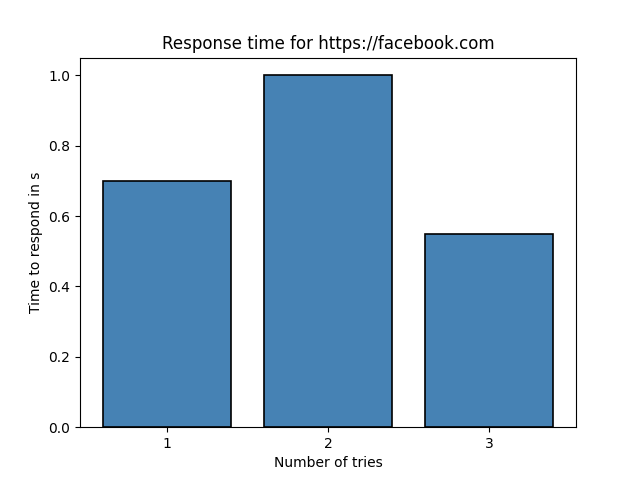
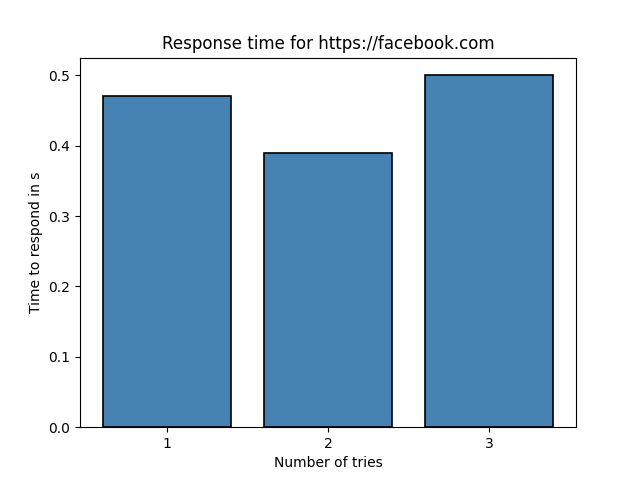
Refactor monitoring reports and add environment configuration for URL list

diff --git a/summary_report.html b/summary_report.html
@@ -1,45 +1,30 @@
 <!DOCTYPE html>
 <html>
-  <head>
-    <title>summary_report</title>
-  </head>
-  <body>
-    <h1>URL Monitoring Report</h1>
-    <div class="report">
-      <p>URL: https://google.com</p>
-      <p>INFO: 3</p>
-      <p>WARNING: 0</p>
-      <p>ERROR: 0</p>
-      <p>Average response time 0.35</p>
-      <h2>Response Time Chart</h2>
-      <img src="googlecom.png">
-    </div>
-    <div class="report">
-      <p>URL: https://youtube.com</p>
-      <p>INFO: 3</p>
-      <p>WARNING: 0</p>
-      <p>ERROR: 0</p>
-      <p>Average response time 0.37</p>
-      <h2>Response Time Chart</h2>
-      <img src="youtubecom.png">
-    </div>
-    <div class="report">
-      <p>URL: https://facebook.com</p>
-      <p>INFO: 3</p>
-      <p>WARNING: 0</p>
-      <p>ERROR: 0</p>
-      <p>Average response time 0.75</p>
-      <h2>Response Time Chart</h2>
-      <img src="facebookcom.png">
-    </div>
-    <div class="report">
-      <p>URL: https://twitter.com</p>
-      <p>INFO: 2</p>
-      <p>WARNING: 1</p>
-      <p>ERROR: 0</p>
-      <p>Average response time 0.96</p>
-      <h2>Response Time Chart</h2>
-      <img src="twittercom.png">
-    </div>
-  </body>
+
+<head>
+  <title>summary_report</title>
+</head>
+
+<body>
+  <h1>URL Monitoring Report</h1>
+  <div class="report">
+    <p>URL: https://google.com</p>
+    <p>INFO: 3</p>
+    <p>WARNING: 0</p>
+    <p>ERROR: 0</p>
+    <p>Average response time 0.22</p>
+    <h2>Response Time Chart</h2>
+    <img src="googlecom.png">
+  </div>
+  <div class="report">
+    <p>URL: https://facebook.com</p>
+    <p>INFO: 3</p>
+    <p>WARNING: 0</p>
+    <p>ERROR: 0</p>
+    <p>Average response time 0.45</p>
+    <h2>Response Time Chart</h2>
+    <img src="facebookcom.png">
+  </div>
+</body>
+
 </html>

diff --git a/main.py b/main.py
@@ -1,4 +1,5 @@
 import re
+import os
 import time
 import datetime
 import requests
@@ -9,10 +10,12 @@ from dominate import document
 from dominate.tags import *
 
 
-url_list = ["https://google.com",
-            "https://youtube.com",
-            "https://facebook.com",
-            "https://twitter.com",]
+# url_list = ["https://google.com",
+#             "https://youtube.com",
+#             "https://facebook.com",
+#             "https://twitter.com",]
+
+
 
 
 def check_url(url):
@@ -92,9 +95,9 @@ def generate_summary(log_data):
         stats = calculate_stats(results)
 
         with open("summary_report.txt", "a") as summary_file:
-            if stats['average_duration'] != 0:
+            if stats["average_duration"] != None:
                 summary_file.write(
-                    f"URL: {url} \n INFO: {stats['info']} \n WARNING: {stats['warning']} \n ERROR {stats['error']} \n Average response time: {(stats['average_duration']):.2f}s \n\n"
+                    f"URL: {url} \n INFO: {stats["info"]} \n WARNING: {stats['warning']} \n ERROR {stats['error']} \n Average response time: {(stats['average_duration']):.2f}s \n\n"
                 )
             else:
                 summary_file.write(
@@ -191,14 +194,18 @@ def generate_html_report(log_data):
 
             file_name = re.sub(r'[^a-zA-Z0-9\s]', '', url).strip()
             file_name = file_name[5:]
-            chart_path = f'{file_name}.png'
+            chart_path = f'plots/{file_name}.png'
 
             with div(_class='report'):
                 p(f'URL: {url}')
                 p(f'INFO: {stats['info']}')
                 p(f'WARNING: {stats['warning']}')
                 p(f'ERROR: {stats['error']}')
-                p(f'Average response time {(stats['average_duration']):.2f}')
+                if stats['average_duration'] != None:
+                    p(f'Average response time {(stats['average_duration']):.2f}')
+                else:
+                    p(f'Did not connect')
+
 
                 if chart_path:
                     h2('Response Time Chart')
@@ -210,6 +217,14 @@ def generate_html_report(log_data):
 
 
 if __name__ == "__main__":
+
+    urls = os.getenv("URLS")
+    if urls:
+        url_list = urls.split(",")
+    elif not urls:    
+        print("No URLs provided!")
+        exit(1)
+
     clear_files()
     log_data = run_monitor(url_list)
     generate_summary(log_data)
